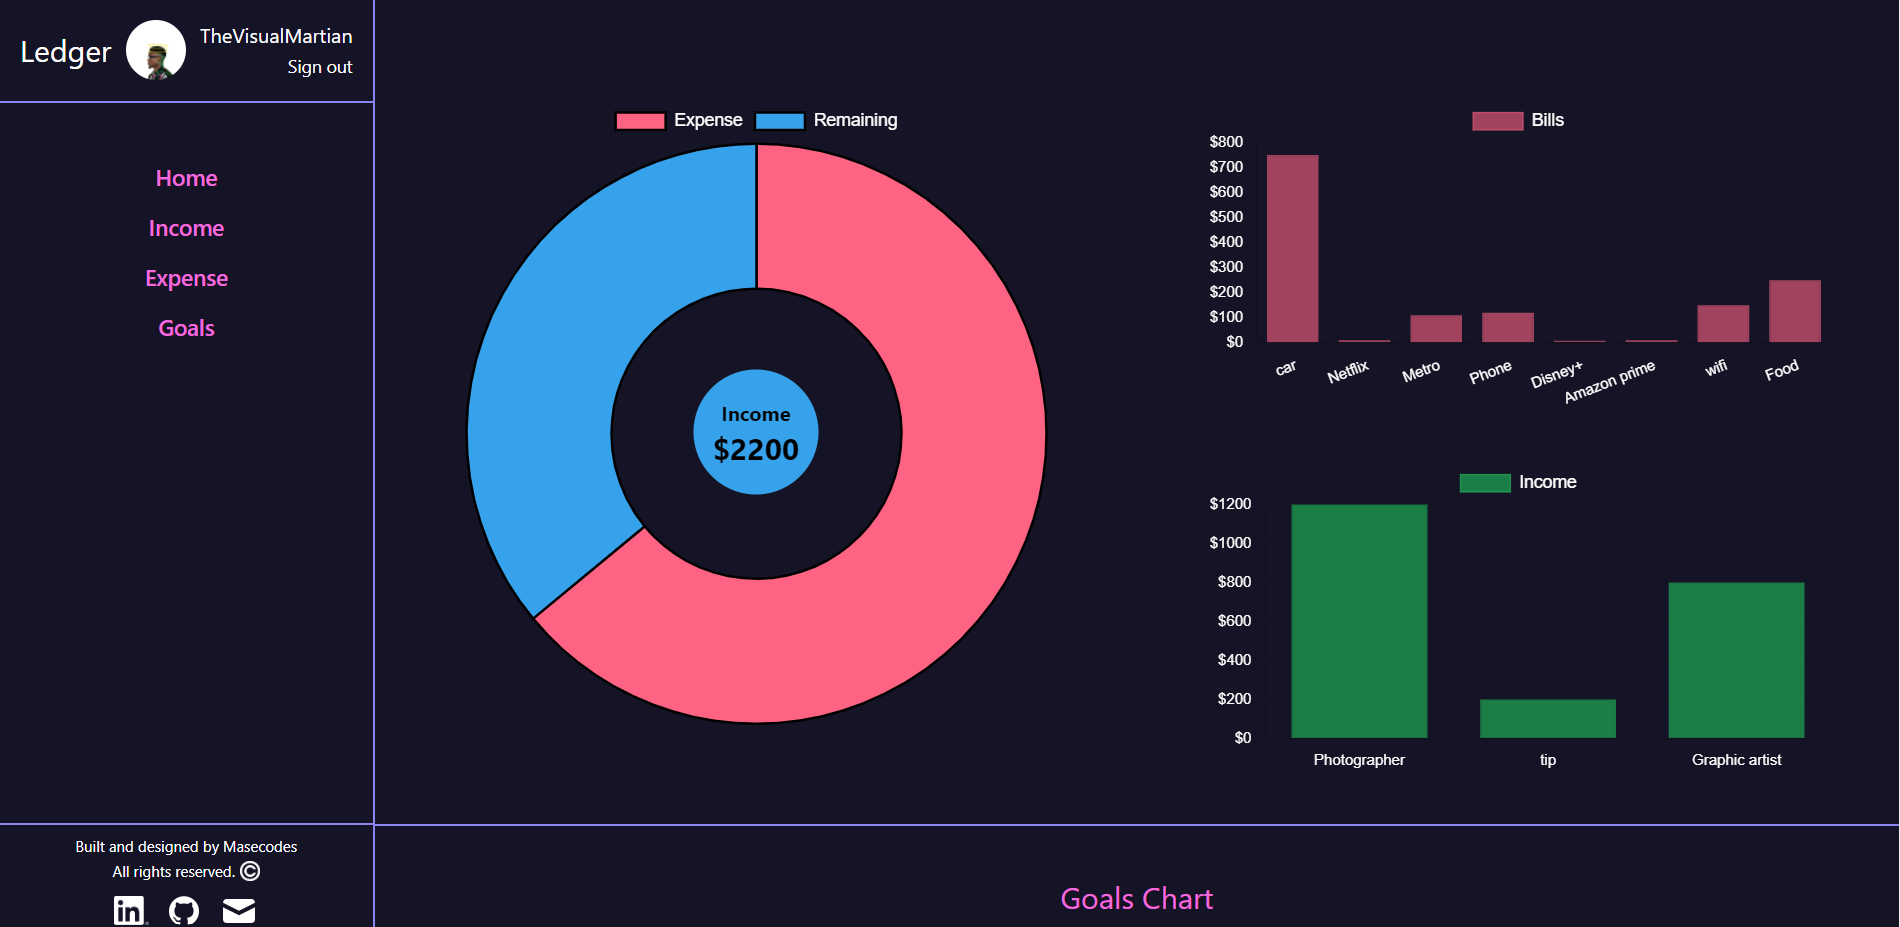
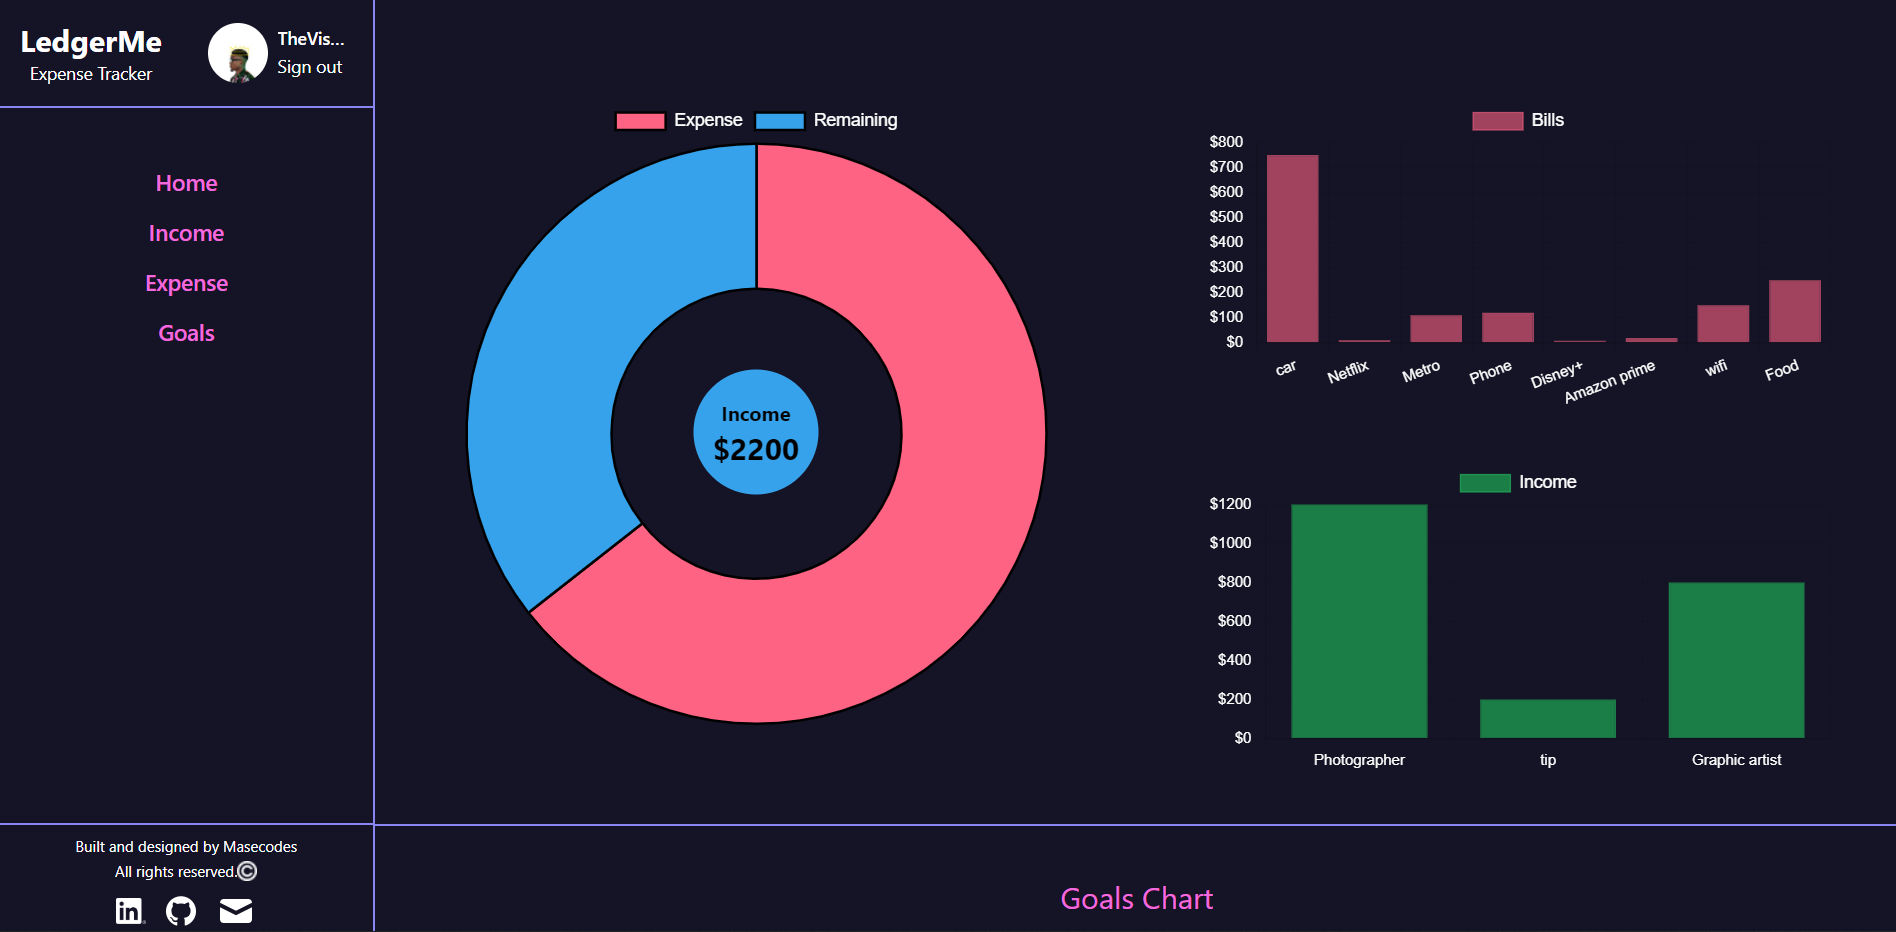
Sidebar design update and App name change

diff --git a/components/SideBar.js b/components/SideBar.js
@@ -13,20 +13,28 @@ function SideBar() {
     <div className="hidden lg:flex">
       <div className="relative w-[300px] h-screen bg-[#151426] text-white border-r-2 border-[#8985F2]">
         <div className="flex justify-between items-center p-4 border-b-2 border-[#8985F2]">
-          <div>
-            <h1 className="text-2xl">Ledger</h1>
+          <div className="text-center">
+            <h1 className="text-2xl font-bold">LedgerMe</h1>
+            <p className="text-sm">Expense Tracker</p>
           </div>
-          <img
-            src={image}
-            alt="profile pic"
-            className="rounded-full h-12 cursor-pointer"
-            onClick={() => router.push("/")}
-          />
-          <div className="text-right">
-            <h1>{name}</h1>
-            <button onClick={signOut} className="text-sm">
-              Sign out
-            </button>
+
+          <div className="text-left  truncate">
+            <div className="flex items-center">
+              <img
+                src={image}
+                alt="profile pic"
+                className="rounded-full ml-auto h-12 cursor-pointer"
+                onClick={() => router.push("/")}
+              />
+              <div className="ml-2">
+                <h1 className="text-sm font-semibold w-[60px] truncate">
+                  {name}
+                </h1>
+                <button onClick={signOut} className="text-sm">
+                  Sign out
+                </button>
+              </div>
+            </div>
           </div>
         </div>
 

diff --git a/components/ledger/WelcomeUser.js b/components/ledger/WelcomeUser.js
@@ -6,7 +6,7 @@ function WelcomeUser({ session, goals }) {
     <div className="h-screen text-center">
       <div className="welcomeUserCenteredSmallScreens lg:centeredOnScreen">
         <h1 className="text-3xl text-[#F26BDC]">Hello {session.user.name},</h1>
-        <h1 className="text-2xl mb-4 text-[#F26BDC]">welcome to Legder!</h1>
+        <h1 className="text-2xl mb-4 text-[#F26BDC]">welcome to LegderMe!</h1>
         <div className="w-[250px] mx-auto">
           <p className="mb-2 pb-2 border-b-2 border-[#8985F2]">
             On this page is where you will see the data visualization of your

diff --git a/components/MobileMenu.js b/components/MobileMenu.js
@@ -18,7 +18,7 @@ function MobileMenu({ session }) {
     <div className="flex justify-between items-center sticky top-0 h-10 z-10 w-full bg-[#36a2eb] lg:hidden">
       <div className="ml-4 flex justify-between items-center w-full">
         <div>
-          <h1 className="text-xl">Ledger</h1>
+          <h1 className="text-xl">LedgerMe</h1>
         </div>
 
         <div className="flex items-center mr-4">

diff --git a/components/WelcomeScreen.js b/components/WelcomeScreen.js
@@ -8,7 +8,7 @@ function WelcomeScreen() {
     <div className="relative min-h-screen">
       <div className="sticky top-0 flex justify-center items-center bg-[#151426] p-2 z-10 w-full h-fit ">
         <h1 className="text-3xl lg:text-5xl text-[#F26BDC]">
-          Welcome To Ledger
+          Welcome To LedgerMe
         </h1>
         <button
           onClick={signIn}
